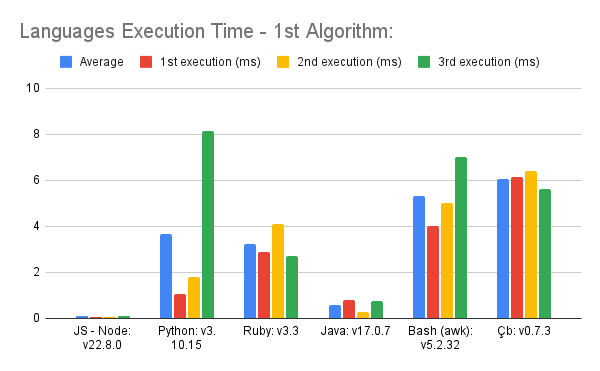
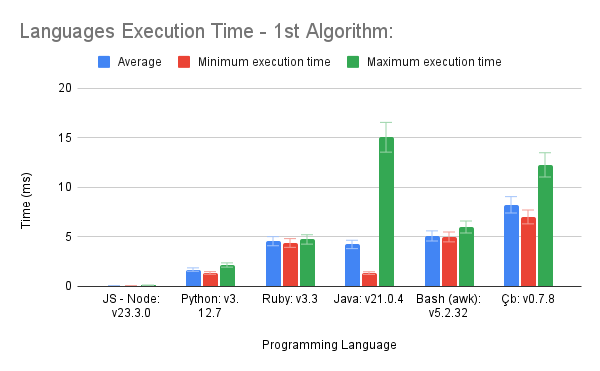
Updating some programming languages and the method used for the comparasion

diff --git a/JS-Node/Algo1.js b/JS-Node/Algo1.js
@@ -1,4 +1,4 @@
-let numbers = [13, 5, 7, 200, 3, 7.9];
+let numbers = [-3.5, 2, 0, -1, 4.2, 7, -8, 5.5, 3, -2, 1.1, 6, -4, 8.8, 0.5, -6];
 
 function put_in_order() {
   console.time('code executed in');

diff --git a/Java/PutInOrder.java b/Java/PutInOrder.java
@@ -5,10 +5,10 @@ public class PutInOrder {
 
         double startTime = System.nanoTime();
 
-        int[] numbers = {13, 5, 7, 200, 3, 9};
+        double[] numbers = {-3.5, 2, 0, -1, 4.2, 7, -8, 5.5, 3, -2, 1.1, 6, -4, 8.8, 0.5, -6};
 
         for (int i = 0; i < numbers.length; i++) {
-            int current = numbers[i];
+            double current = numbers[i];
             int j = i - 1;
 
             while (j >= 0 && numbers[j] > current) {

diff --git a/Python/Algo1.py b/Python/Algo1.py
@@ -2,7 +2,7 @@ from timeit import timeit
 
 # Basic algorithm to put numbers from an array  in ascending order
 
-numbers = [13, 5, 7, 200, 3, 7.9]
+numbers = [-3.5, 2, 0, -1, 4.2, 7, -8, 5.5, 3, -2, 1.1, 6, -4, 8.8, 0.5, -6]
 
 def put_in_order():
   for i, num in enumerate(numbers):

diff --git a/Ruby/Algo1.rb b/Ruby/Algo1.rb
@@ -1,6 +1,6 @@
 require 'benchmark'
 
-numbers = [13, 5, 7, 200, 3, 7.9]
+numbers = [-3.5, 2, 0, -1, 4.2, 7, -8, 5.5, 3, -2, 1.1, 6, -4, 8.8, 0.5, -6]
 
 #Calculate programs execution time
 result = Benchmark.measure do

diff --git a/README.md b/README.md
@@ -4,7 +4,7 @@
 
 ### I will implement two algorithms in each language:
 
-The first algorithm will sort an array of numbers in ascending order.
+The first algorithm will sort an array of numbers in ascending order using the insertion sort method.
 
 And the second one will calculate the mode between the numbers within the array.
 
@@ -20,4 +20,4 @@ NB: Some of the languages  included in this comparison, such as Java and JavaScr
 
 
 
-It is important to remember that all of those tests have been carried out in the same Acer Aspire A315-41 laptop with Ubuntu 22.04.4 LTS.
+It is important to remember that all of those tests have been carried out in the same ASUSTeK COMPUTER INC. Vivobook_ASUSLaptop X1605ZA_X1605ZA with Debian 12.7.
